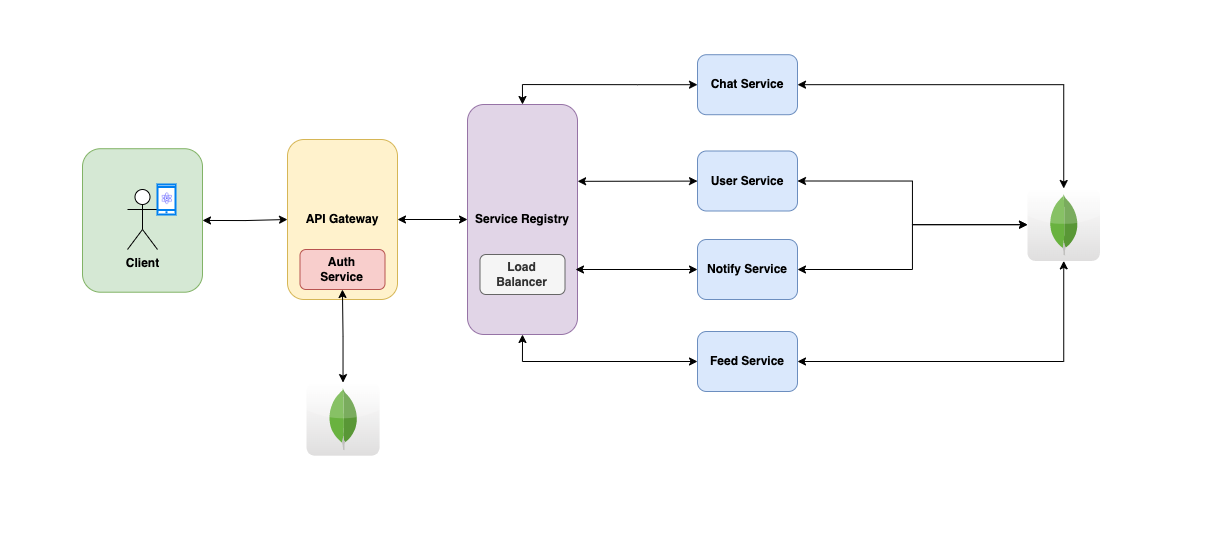
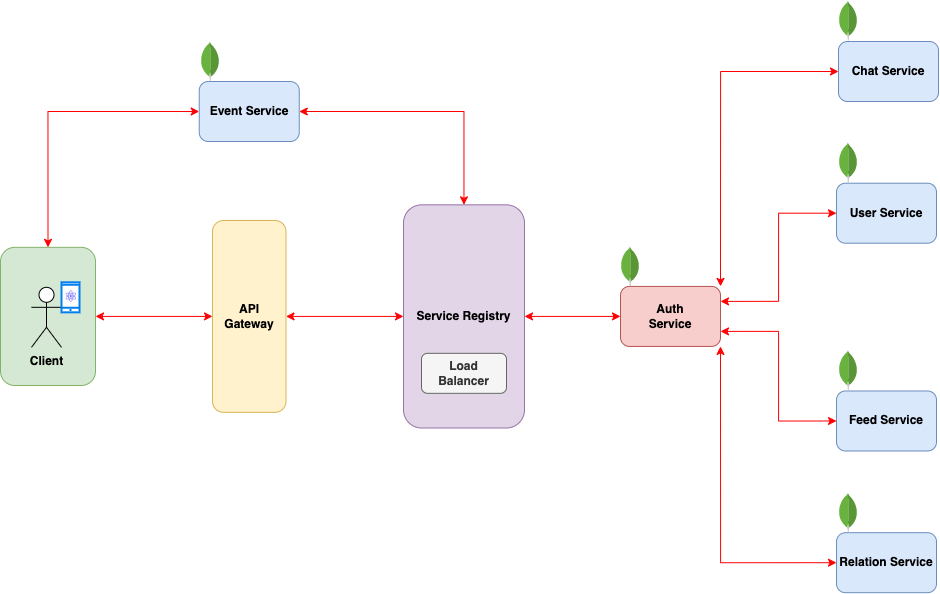
Start README again

diff --git a/README.md b/README.md
@@ -1,0 +1,12 @@
+# Chamber
+
+A scalable, social networking application
+
+## Core Features
+
+- Post Feed
+- Content Engagement
+- Instant Messaging
+- User Profiles
+
+![Architecture Diagram](architecture.png)
